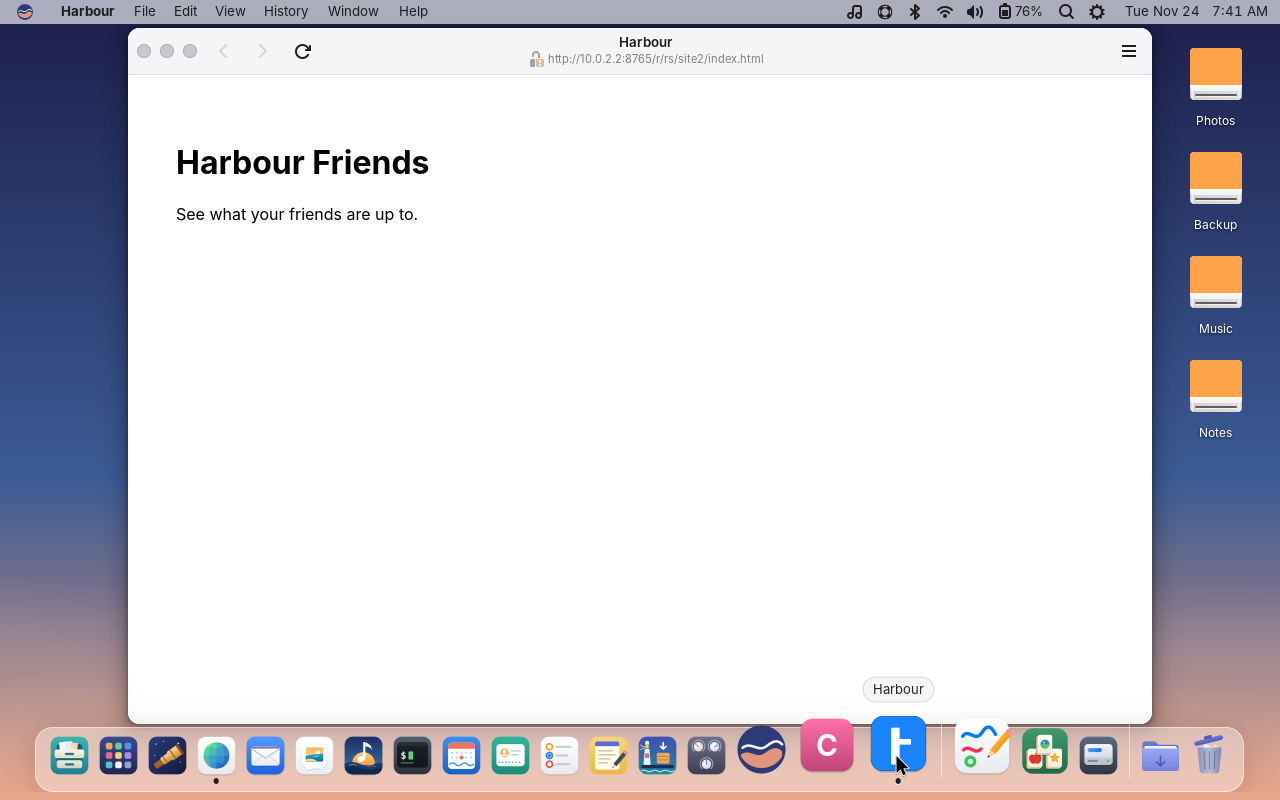
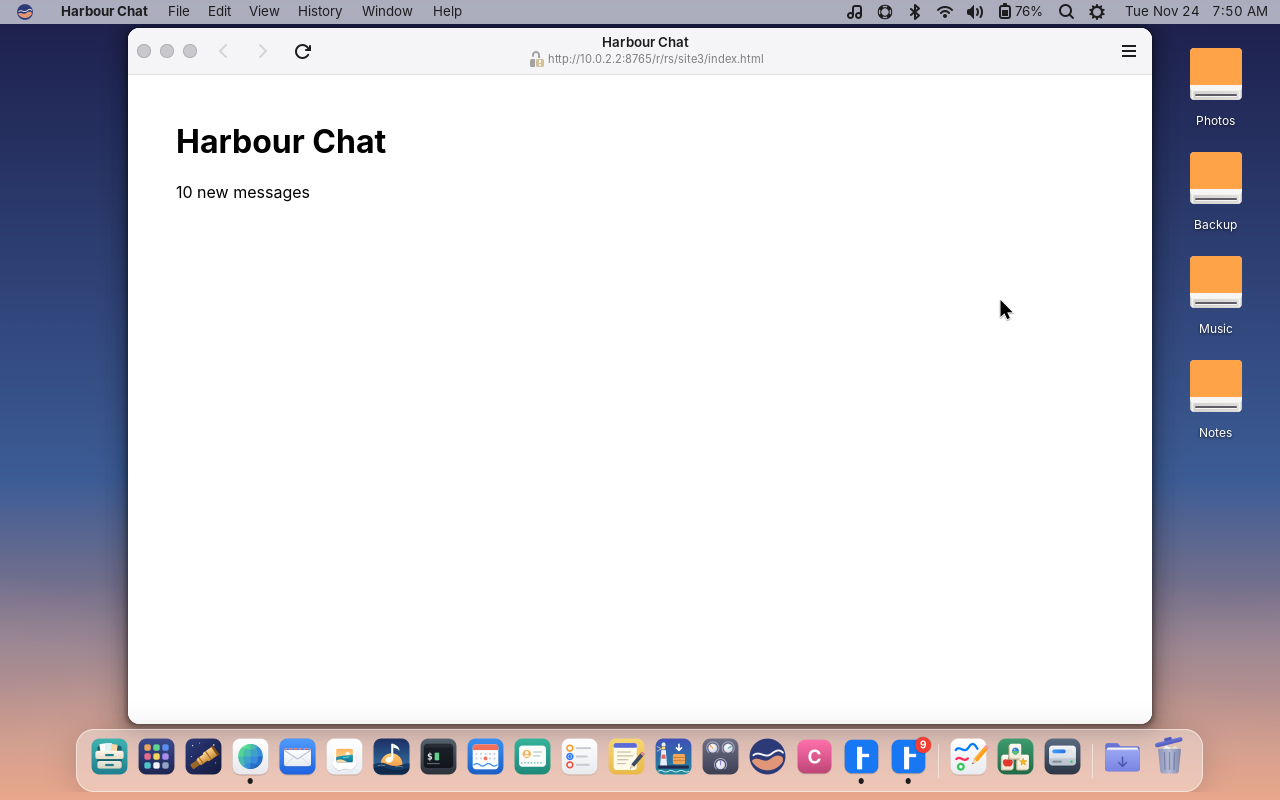
Unread counts on websites in the Dock (1.166)
A web app's Dock icon shows the count its window title gives, such as
Facebook's (3), in a red badge.

diff --git a/shell/freemac_shell/guide_topics.py b/shell/freemac_shell/guide_topics.py
@@ -134,12 +134,14 @@ TOPICS = {
         "Turn off Join Automatically for a network you only want to join by hand, or choose Forget This "
         "Network to remove it and its password.",
     ]),
-    "web-apps": ("Put a website in the Dock", "website web app dock add to dock pin facebook site shortcut icon own window app web apps delete remove", [
+    "web-apps": ("Put a website in the Dock", "website web app dock add to dock pin facebook site shortcut icon own window app web apps delete remove badge unread count number messages notifications", [
         "Open the website in Web, then choose File > Add to Dock…. Web shows the site's own icon and name; "
         "change the name if you like, then click Add.",
         "The website is now in the Dock and in Applications. Click it and it opens in its own window, without "
         "Web's address bar or tabs, and its name shows in the menu bar like any other app.",
         "It keeps its own sign-in, so you stay logged in to it even after you sign out of the same site in Web.",
+        "When the site has something new for you, such as unread messages, its Dock icon shows the number "
+        "in a red badge. Turn badges off in Dials > Dock and Menu Bar.",
         "To delete it, right-click its icon in the Dock and choose Options > Delete Web App…. It leaves the "
         "Dock and Applications and its sign-in is forgotten. The website itself isn't changed.",
     ]),

diff --git a/shell/freemac_shell/webapps.py b/shell/freemac_shell/webapps.py
@@ -25,6 +25,7 @@ import hashlib
 import html.parser
 import json
 import os
+import re
 import shutil
 import sys
 import threading
@@ -161,6 +162,28 @@ def as_desktop_id(name):
 
 def is_web_app(desktop_id):
     return bool(desktop_id) and desktop_id.startswith(PREFIX) and desktop_id.endswith(".desktop")
+
+
+# What a site's title says it has waiting: Facebook's "(3) Facebook", or a
+# mail site's "Inbox (12) - …". Web apps can't send the Dock a badge
+# themselves, so the Dock reads the number from their windows' titles.
+_LEADING = re.compile(r"^\s*\((\d[\d,.]*)\+?\)\s")
+_INBOX = re.compile(r"\b(?:Inbox|Messages|Chats|Notifications)\s*\((\d[\d,.]*)\+?\)", re.I)
+
+
+def title_count(title):
+    """The unread count a page's title shows, or 0."""
+    for pattern in (_LEADING, _INBOX):
+        found = pattern.search(title or "")
+        if found:
+            digits = re.sub(r"[,.]", "", found.group(1))
+            return int(digits) if digits.isdigit() else 0
+    return 0
+
+
+def views_count(views):
+    """The largest count among a web app's windows."""
+    return max((title_count(v.get("title")) for v in views), default=0)
 
 
 def write_app(name, url, icon_png):

diff --git a/shell/freemac_shell/pier.py b/shell/freemac_shell/pier.py
@@ -506,6 +506,11 @@ class Item(Gtk.Button):
     def set_views(self, views, alive=False):
         self.views = views
         self.alive = alive
+        # A web app's unread count comes from its window's title.
+        count = webapps.views_count(views) if webapps.is_web_app(self.badge_id()) else 0
+        if count != getattr(self, "title_count", 0):
+            self.title_count = count
+            self.queue_draw()
         self.dot.set_opacity(1.0 if (views or alive) and self.pier.show_dots() else 0.0)
         if views and not self.attention:
             self.stop_bounce()
@@ -604,6 +609,7 @@ class Item(Gtk.Button):
         if badges is None or not self.pier.show_badges():
             return False
         count, progress = launcher_badge.shown(badges.get(self.badge_id()))
+        count = count or getattr(self, "title_count", 0)
         if not count and progress is None:
             return False
         alloc = self.image.get_allocation()

diff --git a/README.md b/README.md
@@ -55,7 +55,7 @@ names, contacts and events in them are made-up examples.
 <tr><td width="50%"><img src="docs/screenshots/menu-extras.png" alt="An app's own icon in the menu bar with its menu open: Open Demo Mail, 3 Unread, Notify Me ticked, Check Speed with a submenu of Fast and Slow, and Quit Demo Mail"><br><sub>Menu bar extras: apps' own icons in the menu bar, with their menus</sub></td><td width="50%"><img src="docs/screenshots/ferry-menu-bar-items.png" alt="A Mac program run through Ferry with two menu bar items, a dot and the temperature 21°, and the temperature's menu open: Open_Forecast, Notify Me ticked, Not Now greyed out, Units with a submenu, and Quit"><br><sub>Mac programs' menu bar items, through Ferry</sub></td></tr>
 <tr><td width="50%"><img src="docs/screenshots/focus-menu.png" alt="The Focus menu open from the moon in the menu bar: Do Not Disturb on in blue, Sleep, Work and Personal, and Focus Settings…"><br><sub>The Focus menu: switch Focus, or turn it off, from the menu bar</sub></td><td width="50%"><img src="docs/screenshots/menu-bar-choices.png" alt="Dials settings with switches for Show Wi-Fi, Bluetooth, Sound, Battery and Focus in menu bar, all on"><br><sub>Choose which icons the menu bar shows</sub></td></tr>
 <tr><td width="50%"><img src="docs/screenshots/ferry-tables.png" alt="Drawn by Ferry for a Mac program: an outline list with Fruit opened to Apple, Pear and Plum, and a table of files with Name, Size and Done columns, sorted by size, with check boxes"><br><sub>Mac programs' lists and tables, drawn by Ferry</sub></td><td width="50%"><img src="docs/screenshots/now-playing.png" alt="Now Playing open from the music note in the menu bar: the album cover, Harbour Lights by The Tide Pool from Low Water, playing in Shanty, 2:11 gone and 1:22 left on a line, and back, pause and forward buttons; a magnifying glass for Seek sits beside the Quick Settings symbol"><br><sub>Now Playing in the menu bar, with Seek's magnifying glass beside it</sub></td></tr>
-<tr><td width="50%"><img src="docs/screenshots/add-to-dock.png" alt="Web on the Harbour Friends website with the Add to Dock window open: the site's blue icon, the name Harbour, its address, and Cancel and Add"><br><sub>File > Add to Dock… in Web puts a website in the Dock</sub></td><td width="50%"><img src="docs/screenshots/web-app.png" alt="Harbour open in its own window from the Dock, with Harbour in the menu bar and no address bar or tabs"><br><sub>It opens in its own window, like an app</sub></td></tr>
+<tr><td width="50%"><img src="docs/screenshots/add-to-dock.png" alt="Web on the Harbour Friends website with the Add to Dock window open: the site's blue icon, the name Harbour, its address, and Cancel and Add"><br><sub>File > Add to Dock… in Web puts a website in the Dock</sub></td><td width="50%"><img src="docs/screenshots/web-app.png" alt="Harbour Chat open in its own window from the Dock, with Harbour Chat in the menu bar, no address bar or tabs, and a red 8 on its Dock icon for 8 new messages"><br><sub>It opens in its own window, with its unread count on its Dock icon</sub></td></tr>
 <tr><td width="50%"><img src="docs/screenshots/lifeboat-menu.png" alt="The Lifeboat menu open from the lifebuoy in the menu bar: Latest backup: Just now, Back Up Now, Browse Lifeboat Backups and Lifeboat Settings"><br><sub>Lifeboat in the menu bar: when you last backed up, and Back Up Now</sub></td><td width="50%"><img src="docs/screenshots/ferry-controls.png" alt="Drawn by Ferry for a Mac program: a toolbar, a pop-up list set to Large, a segmented control with Day, Week and Month, a search field, and a pop-up list open with Blue ticked"><br><sub>Mac programs' pop-up lists, segmented controls, search fields and toolbars, drawn by Ferry</sub></td></tr>
 <tr><td width="50%"><img src="docs/screenshots/wifi-menu.png" alt="The Wi-Fi menu open from the menu bar: Wi-Fi switched on, Known Networks Coffee Shop (joined, in blue) and Lakeside Guest, Other Networks Lakeside Home with a padlock, and Wi-Fi Settings"><br><sub>The Wi-Fi menu: click a network to join it</sub></td><td width="50%"><img src="docs/screenshots/wifi-password.png" alt="A window saying The Wi-Fi network Lakeside Home requires a WPA2 password, with a password field, Show password, Cancel and Join"><br><sub>A network with a padlock asks for its password</sub></td></tr>
 <tr><td width="50%"><img src="docs/screenshots/startup-disk.png" alt="Dials > Startup Disk: freemac, Windows, Ubuntu, a SanDisk USB stick and the DVD drive freemac is running from, with freemac chosen, Restart in freemac… and Always Start Up from This"><br><sub>Dials > Startup Disk: choose Windows, freemac or a USB stick</sub></td><td width="50%"><img src="docs/screenshots/startup-disk-restart.png" alt="An alert asking Restart in Windows? The computer restarts in Windows, just this once, with Cancel and Restart"><br><sub>Restart in Windows just once, then back to freemac</sub></td></tr>
@@ -162,6 +162,7 @@ one of them will be reverted.
 | Menu bar extras: apps that show an icon while they run (chat, cloud storage, password managers) get it in the menu bar, with their menus; Topline is the StatusNotifierItem host that Linux apps look for | **Topline** | 1.156 |
 | A Wi-Fi menu in the menu bar: networks you've joined, then the others with their signal and a padlock if they need a password; click one to join (a password is asked once and remembered), click the one you're on for its address, signal and channel, or switch Wi-Fi off and on | **Topline** | 1.153 |
 | Now Playing in the menu bar while music or a video plays: the cover, the track, how far it has got, and back, play or pause and forward; and Seek's magnifying glass, as ⌘Space; either can be hidden in Dials > Dock and Menu Bar | **Topline**, Dials | 1.162 |
+| Unread counts on websites in the Dock: a red badge with the number a site shows in its title, such as Facebook's (3), on its Dock icon | Dock | 1.166 |
 | Add to Dock for websites: File > Add to Dock… in Web puts a website in the Dock with its own icon and name; it opens in its own window, keeps its own sign-in, and is deleted with Options > Delete Web App… | **Web**, Dock | 1.165 |
 | Lifeboat in the menu bar: a lifebuoy that turns while a backup runs, with when the latest backup was made, Back Up Now or Skip This Backup, and Browse Lifeboat Backups | **Topline**, Lifeboat | 1.163 |
 | VPN: add a WireGuard (.conf) or OpenVPN (.ovpn) file in Dials > Network, turn it on with its switch, and connect or disconnect from the VPN menu in the menu bar | Dials, **Topline** | 1.142 |

diff --git a/docs/ROADMAP.md b/docs/ROADMAP.md
@@ -1183,6 +1183,14 @@ The menu bar's Bluetooth menu, as on a Mac.
 | 4 | Bluetooth Settings… opens Dials > Bluetooth, as a click did before; a computer with no Bluetooth still shows no symbol | bluetooth_menu.py, status.py | done |
 | 5 | Guide topic, README row and screenshots | Guide, Docs | done |
 
+## 1.166 "Unread counts on websites in the Dock" (done)
+
+| # | Item | Component | Status |
+| --- | --- | --- | --- |
+| 1 | A website in the Dock shows the count its title gives, such as Facebook's "(3) Facebook" or a mail site's "Inbox (12)", in a red badge on its icon, as a Mac shows on web apps | webapps.py, Dock | done |
+| 2 | It changes as the title does and goes when the site is closed; Show badges in Dials > Dock and Menu Bar turns it off with the others | Dock | done |
+| 3 | Guide lines, README row and screenshot | Guide, Docs | done |
+
 ## 1.165 "Add to Dock for websites" (done)
 
 A website such as Facebook can sit in the Dock and open like an app, as Safari's

diff --git a/docs/ARCHITECTURE.md b/docs/ARCHITECTURE.md
@@ -908,6 +908,13 @@ App… asks first, stops the app's own Epiphany (matched by its `--profile`
 argument, waiting for it to exit so it can't rewrite the folder), then
 removes the link, launcher, profile and pin.
 
+Epiphany has no Badging API, so a web app can't send a LauncherEntry badge
+(1.166). Instead `Item.set_views` in the Dock passes the windows of a web
+app's launcher to `webapps.views_count`, which reads a leading "(3)" or an
+"Inbox (12)" from each title and keeps the largest; `_draw_badge` uses it
+when no LauncherEntry count was sent. The Dock reads views on each Wayfire
+event and every five seconds, so the badge follows the title.
+
 ## Lifeboat in the menu bar (1.163)
 
 `lifeboat_menu.LifeboatMenu` watches `lifeboat-status.json` and
